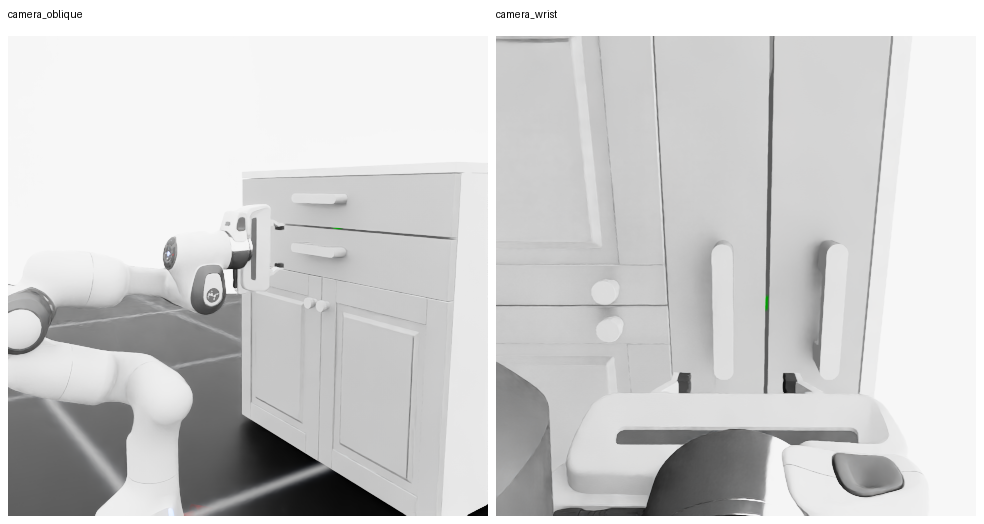
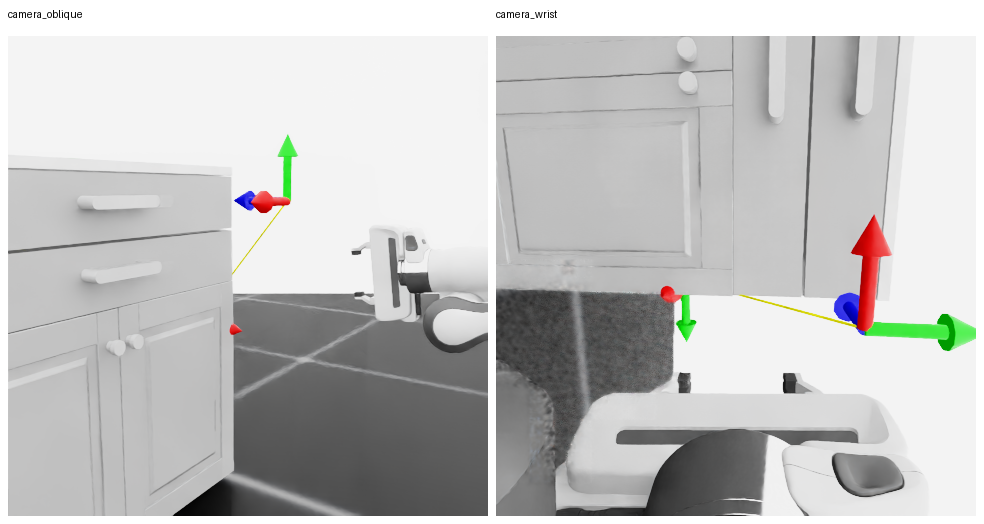
Fix Task 3 oblique camera position and rotation

diff --git a/source/franka_policy_isaac_lab/franka_policy_isaac_lab/tasks/manipulation/cabinet_ik_rel_env_cfg.py b/source/franka_policy_isaac_lab/franka_policy_isaac_lab/tasks/manipulation/cabinet_ik_rel_env_cfg.py
@@ -26,8 +26,8 @@ from franka_policy_isaac_lab.devices import FrankaPickPlaceGamepadCfg
 from franka_policy_isaac_lab.tasks.manipulation import mdp as project_mdp
 
 CAMERA_RESOLUTION = (480, 480)
-OBLIQUE_CAMERA_POS = (-0.45, -1.05, 0.75)
-OBLIQUE_CAMERA_ROT = (0.621546, -0.727809, 0.220363, -0.188189)
+OBLIQUE_CAMERA_POS = (-0.10, 1.10, 0.75)
+OBLIQUE_CAMERA_ROT = (-0.188189, 0.220363, -0.727809, 0.621546)
 WRIST_CAMERA_LOCAL_POS = (0.15, 0.0, -0.15)
 WRIST_CAMERA_LOCAL_ROT = (0.000780, -0.627572, 0.001738, -0.778556)
 TASK3_CABINET_X_FARTHER_RANGE = 0.315

diff --git a/README.md b/README.md
@@ -190,6 +190,7 @@ Task3 reuses Isaac Lab's Franka cabinet IK-relative configuration and adapts it 
 - action: relative IK Franka control with one continuous analog gripper command
 - success: bottom drawer joint exceeds the configured open threshold
 - camera observations: `obs/rgb_camera/camera_oblique`, `obs/rgb_camera/camera_wrist`, `480 x 480`
+- oblique camera: fixed mirrored side view from the robot-left side
 - reset randomization: cabinet farther `x`, one-sided lateral `y`, small Franka arm joint noise, and light intensity
 
 Task3 camera previews at recorded resolution: